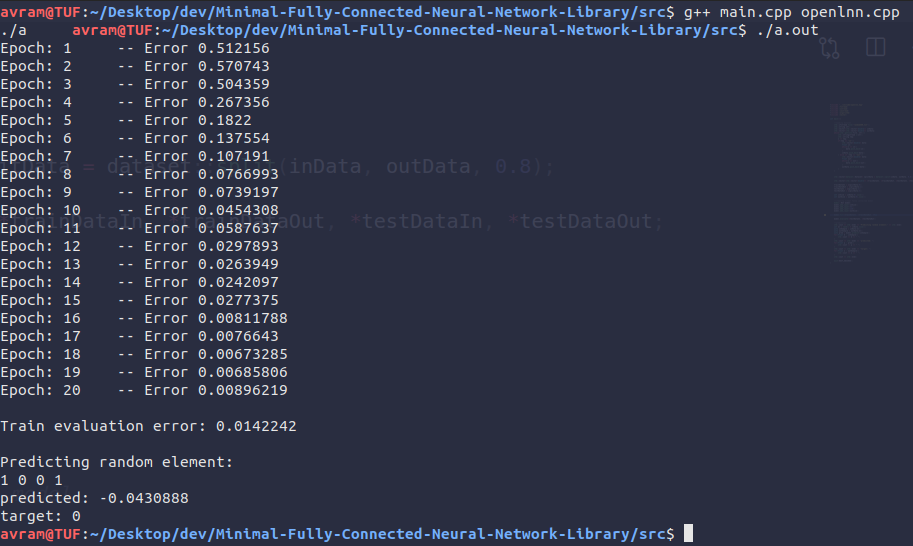
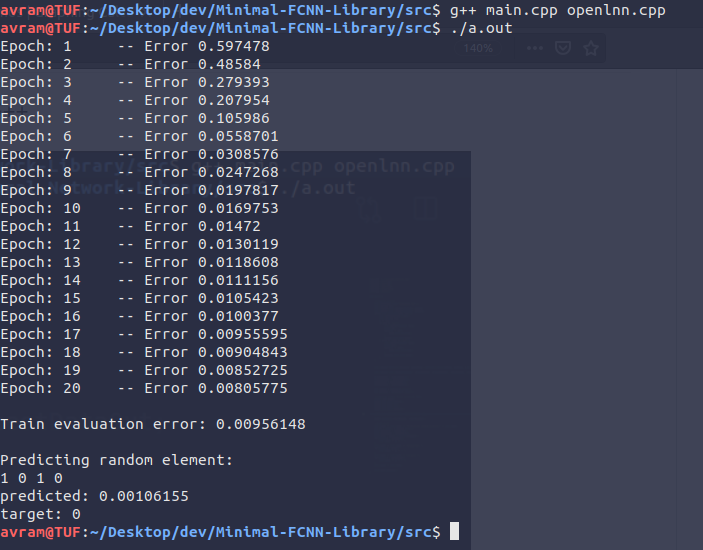
ss

Changed region(s): [[0.0, 0.0, 0.9858, 0.9963]]

diff --git a/src/main.cpp b/src/main.cpp
@@ -53,7 +53,7 @@ int main(){
     model.add_layer(128);
     model.add_layer(outSize);
 
-    model.fit(*trainDataIn, *trainDataOut, 50);
+    model.fit(*trainDataIn, *trainDataOut, 20);
 
     model.evaluate(*testDataIn, *testDataOut);
 
